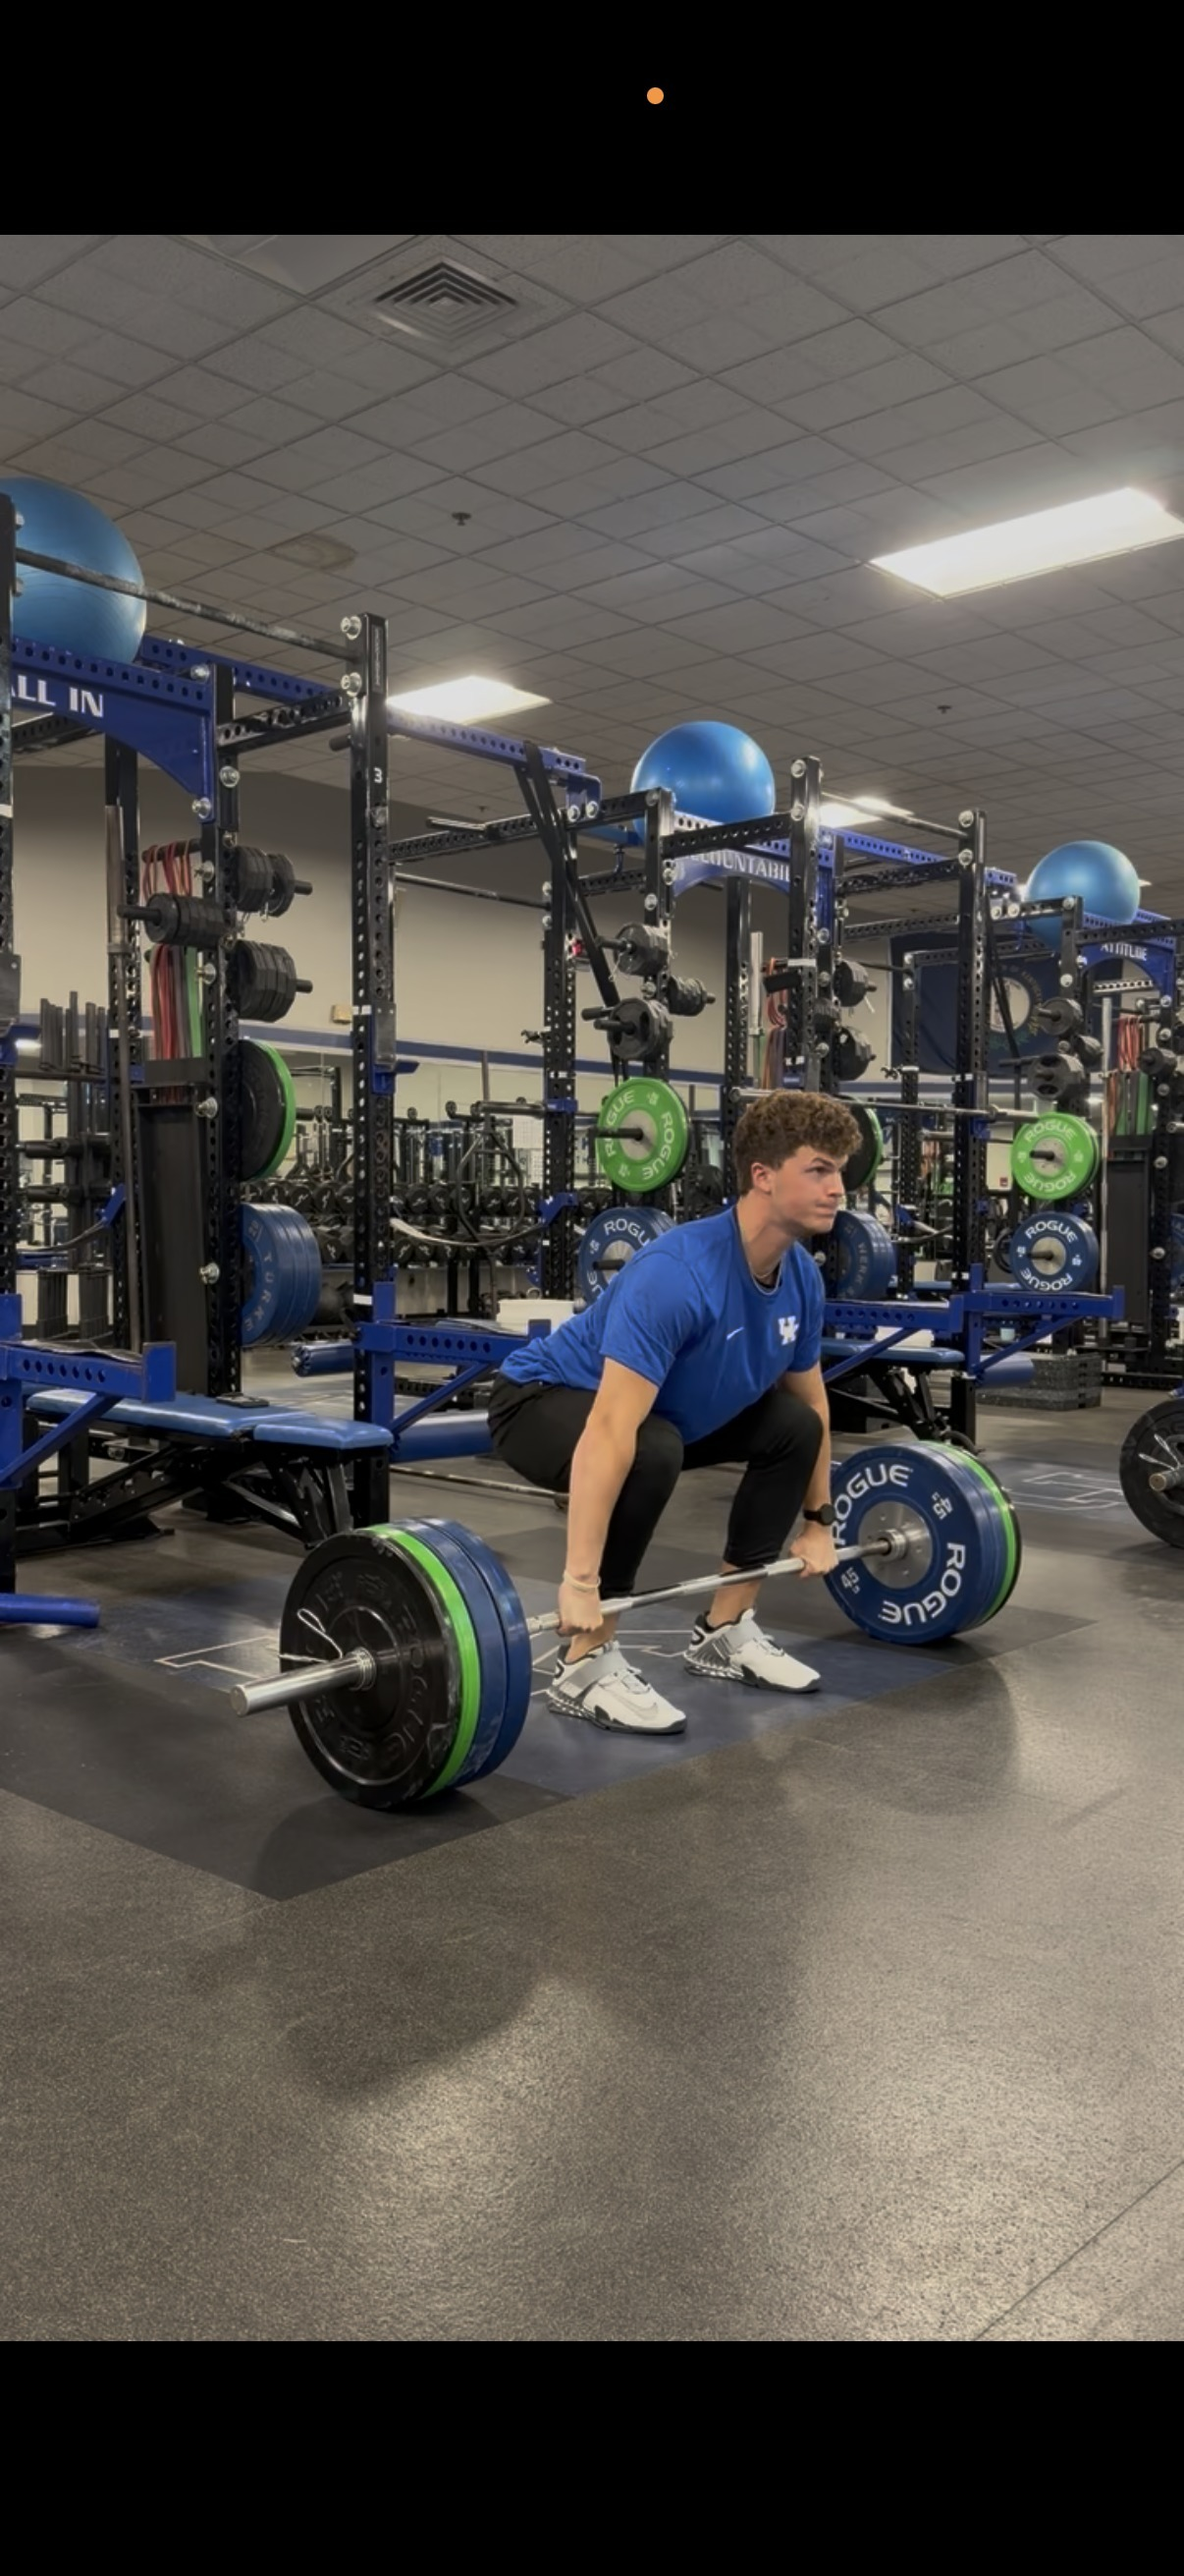
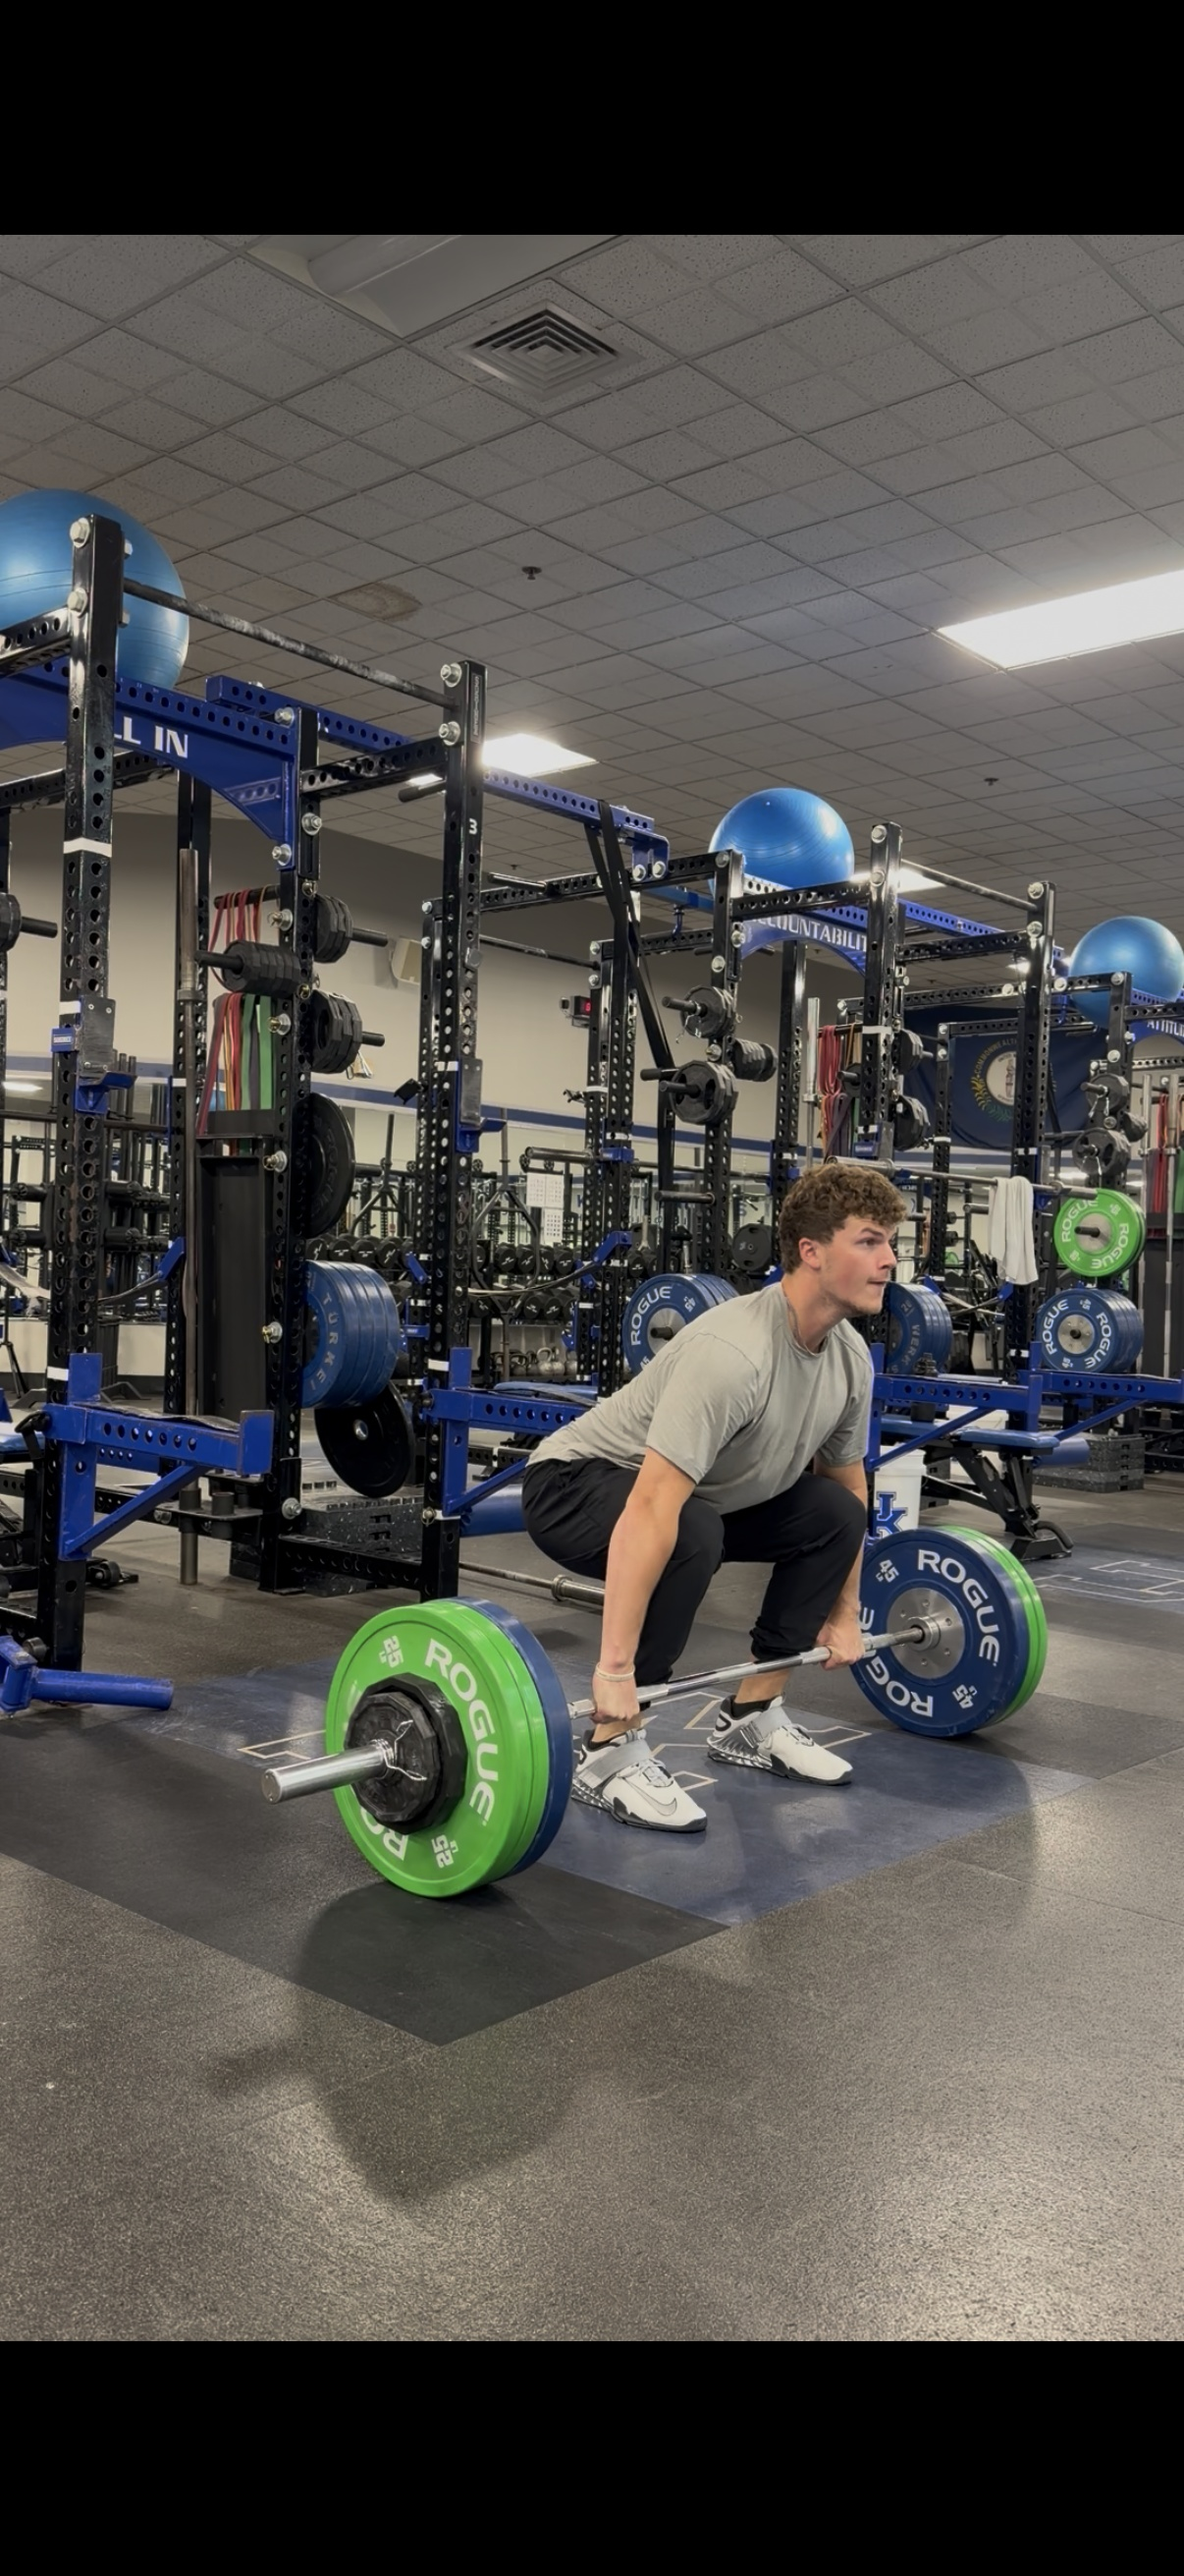
Add files via upload

diff --git a/index.html b/index.html
@@ -120,7 +120,7 @@
     #hero {
       min-height: 100vh;
       background:
-        linear-gradient(to right, rgba(9,13,24,0.88) 45%, rgba(9,13,24,0.55) 100%),
+        linear-gradient(to right, rgba(9,13,24,0.97) 45%, rgba(9,13,24,0.80) 100%),
         url('hero-bg.jpg') /* ← HERO BACKGROUND — change filename here */ center top/cover no-repeat;
       display: flex;
       flex-direction: column;
@@ -383,7 +383,11 @@
       border: 1px solid var(--card-border);
       padding: 36px;
       position: relative;
+      display: flex;
+      flex-direction: column;
     }
+    .pricing-card .btn-full { margin-top: auto; }
+    .pricing-card .btn-full + .btn-full { margin-top: 10px; }
 
     .pricing-card.featured { border-color: var(--blue); }
 
@@ -1048,11 +1052,12 @@
     <div class="pricing-card">
       <div class="plan-name">ESSENTIAL</div>
       <div class="plan-price"><sup>$</sup>99<span class="mo">/month</span></div>
+      <div class="via-th">VIA RELAY</div>
       <div class="plan-tagline">Structured programming. Real results.</div>
-      <p class="plan-desc">Personalized 1-on-1 programming built around your goals — no matter your background or experience level. Progressive plans delivered through Train Heroic, designed around your schedule.</p>
+      <p class="plan-desc">Personalized 1-on-1 programming built around your goals — no matter your background or experience level. Progressive plans delivered through Relay, designed around your schedule.</p>
       <ul class="check-list">
         <li>Custom monthly training plan</li>
-        <li>1-on-1 coaching via Train Heroic</li>
+        <li>1-on-1 coaching via Relay</li>
         <li>Direct access to message me</li>
         <li>Access to WP exercise library</li>
       </ul>
@@ -1064,6 +1069,7 @@
       <div class="most-popular">MOST POPULAR</div>
       <div class="plan-name">ELITE</div>
       <div class="plan-price"><sup>$</sup>149<span class="mo">/month</span></div>
+      <div class="via-th">VIA RELAY</div>
       <div class="plan-tagline">Full Access Elite Coaching.</div>
       <p class="plan-desc">The highest level of 1-on-1 coaching. Weekly programming adjustments, unlimited form reviews, and priority access to me — built for anyone who wants every edge and won't settle for less.</p>
       <ul class="check-list">
